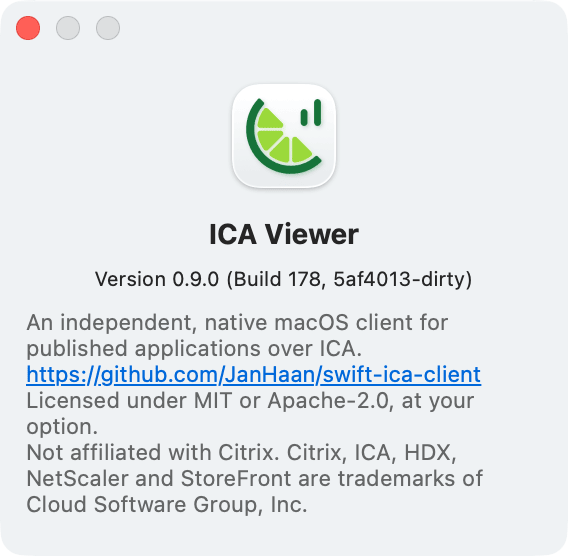
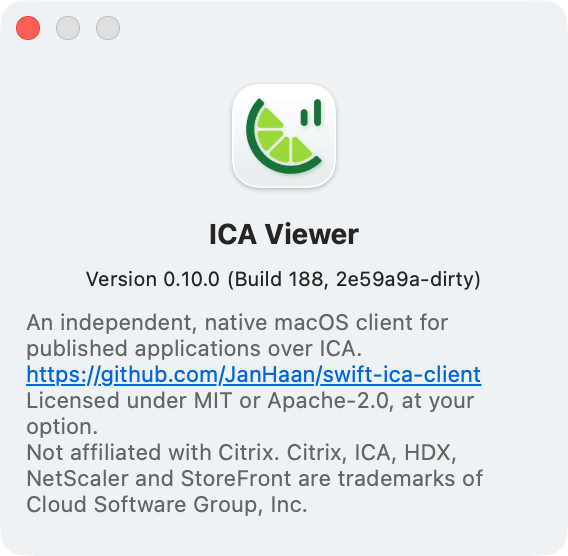
0.10.0: version, README and FEATURES (dead keys, emoji picker, + - , . shortcuts; press-and-hold and input methods not built), manual screenshots rebuilt (the large-copy progress window retaken)

Changed region(s): [[0.1496, 0.4892, 0.868, 0.5198]]

diff --git a/FEATURES.md b/FEATURES.md
@@ -1,8 +1,8 @@
 # Feature matrix: stock Citrix Workspace app vs ICAViewer
 
 ICAViewer is an independent project and is not affiliated with Citrix. The stock columns summarise
-Citrix's public documentation (links under Sources). The Ours column describes ICAViewer v0.9.0 as
-of 2026-11-18; how each feature behaves is described in the README and under `docs/`.
+Citrix's public documentation (links under Sources). The Ours column describes ICAViewer v0.10.0 as
+of 2026-11-19; how each feature behaves is described in the README and under `docs/`.
 
 ## At a glance
 
@@ -123,7 +123,7 @@ of 2026-11-18; how each feature behaves is described in the README and under `do
 | Keyboard layout sync to a Windows VDA | Yes | Yes | Yes | No | No | Yes | Yes | Yes | Ours: the Mac's input source at sign-in (DE, US, UK, FR, CH, NL, ES, IT, Dvorak and more); after a switch, characters go as text; verified headless and in the macOS test VM |
 | Keyboard layout sync to a Linux VDA | Yes | Yes | Yes | No | No | Yes | Yes | ? | |
 | Scancode keyboard mode | Yes | Yes | Yes | Yes | Yes | No | No | Yes | |
-| Unicode keyboard mode | No | Yes | Yes | Yes | Yes | Yes | Yes | Partly | Ours: Option-composed characters (€, @; such an Option never acts as Alt), and printable keys while the Mac layout differs from the logon layout; Cmd and Ctrl shortcuts stay keys, placed by the session's layout (D141, D160) |
+| Unicode keyboard mode | No | Yes | Yes | Yes | Yes | Yes | Yes | Partly | Ours: Option-composed characters (€, @; such an Option never acts as Alt), dead keys composed by the Mac layout (ê, ñ), the emoji picker (Emoji & Symbols; typing in its search field not yet), and printable keys while the Mac layout differs from the logon layout; Cmd and Ctrl shortcuts stay keys, letters and + - , . placed by the session's layout (D141, D160, D167). Not built: press-and-hold accents and Mac input methods |
 | Local input method for Chinese, Japanese, Korean | Yes | Yes | No | Yes | Yes | Yes | Yes | No | CTXIME |
 | Server input method for Chinese, Japanese, Korean | Yes | Yes | Yes | Yes | Yes | Yes | Yes | ? | Ours: needs only key events |
 | Mouse and wheel | Likely | Likely | Likely | Likely | Likely | Likely | Likely | Yes | |

diff --git a/README.md b/README.md
@@ -44,7 +44,7 @@ product and not a replacement for the official client. Expect gaps; see [Status]
 
 The screenshots come from a test lab (macOS VM, example user and apps).
 
-## What it does (0.9.0)
+## What it does (0.10.0)
 
 - **Sign in** through a gateway (user name, password, one-time code) or to a StoreFront store
   directly; optional Keychain storage with Touch ID; Sign Out.
@@ -55,7 +55,7 @@ The screenshots come from a test lab (macOS VM, example user and apps).
 - **Clipboard:** text, images, rich text, and files and folders both ways (large copies with progress).
 - **Client drive, PDF printing, audio playback, the microphone and the webcam** (both on by default; used
   only while a remote app records or uses the camera, after macOS asks once), Retina-sharp display, keyboard
-  layout of the Mac.
+  layout of the Mac with dead keys and the emoji picker.
 - A Mac-style interface (Settings panes, menus, VoiceOver), English and German, and a scrubbed
   **Report a Problem** (Help menu): nothing is sent unless you submit it, and you see exactly what it
   contains first.
@@ -71,7 +71,7 @@ the official clients.
 - **Limits:** a published desktop has a fixed size and one screen; HTML on the clipboard is filtered by
   the server; large copies are slow where the server paces file transfers.
 - **Not implemented:** SAML, smart card and FIDO2 sign-in, USB devices, links opening on the Mac,
-  Teams optimization. HDX over UDP exists as an experimental, switched-off code path.
+  Teams optimization, press-and-hold accents and Mac input methods (Chinese, Japanese, Korean). HDX over UDP exists as an experimental, switched-off code path.
 
 ## Requirements
 

diff --git a/manual/README.md b/manual/README.md
@@ -1,6 +1,6 @@
 # ICA Viewer User Manual
 
-Version <!-- version -->0.9.0<!-- /version -->
+Version <!-- version -->0.10.0<!-- /version -->
 
 ICA Viewer is a Mac app for working with Windows apps that your organization publishes through Citrix. Each remote app opens in its own Mac window, with its own Dock icon, and works with Cmd-Tab, Mission Control and your window switcher like any local app.
 
